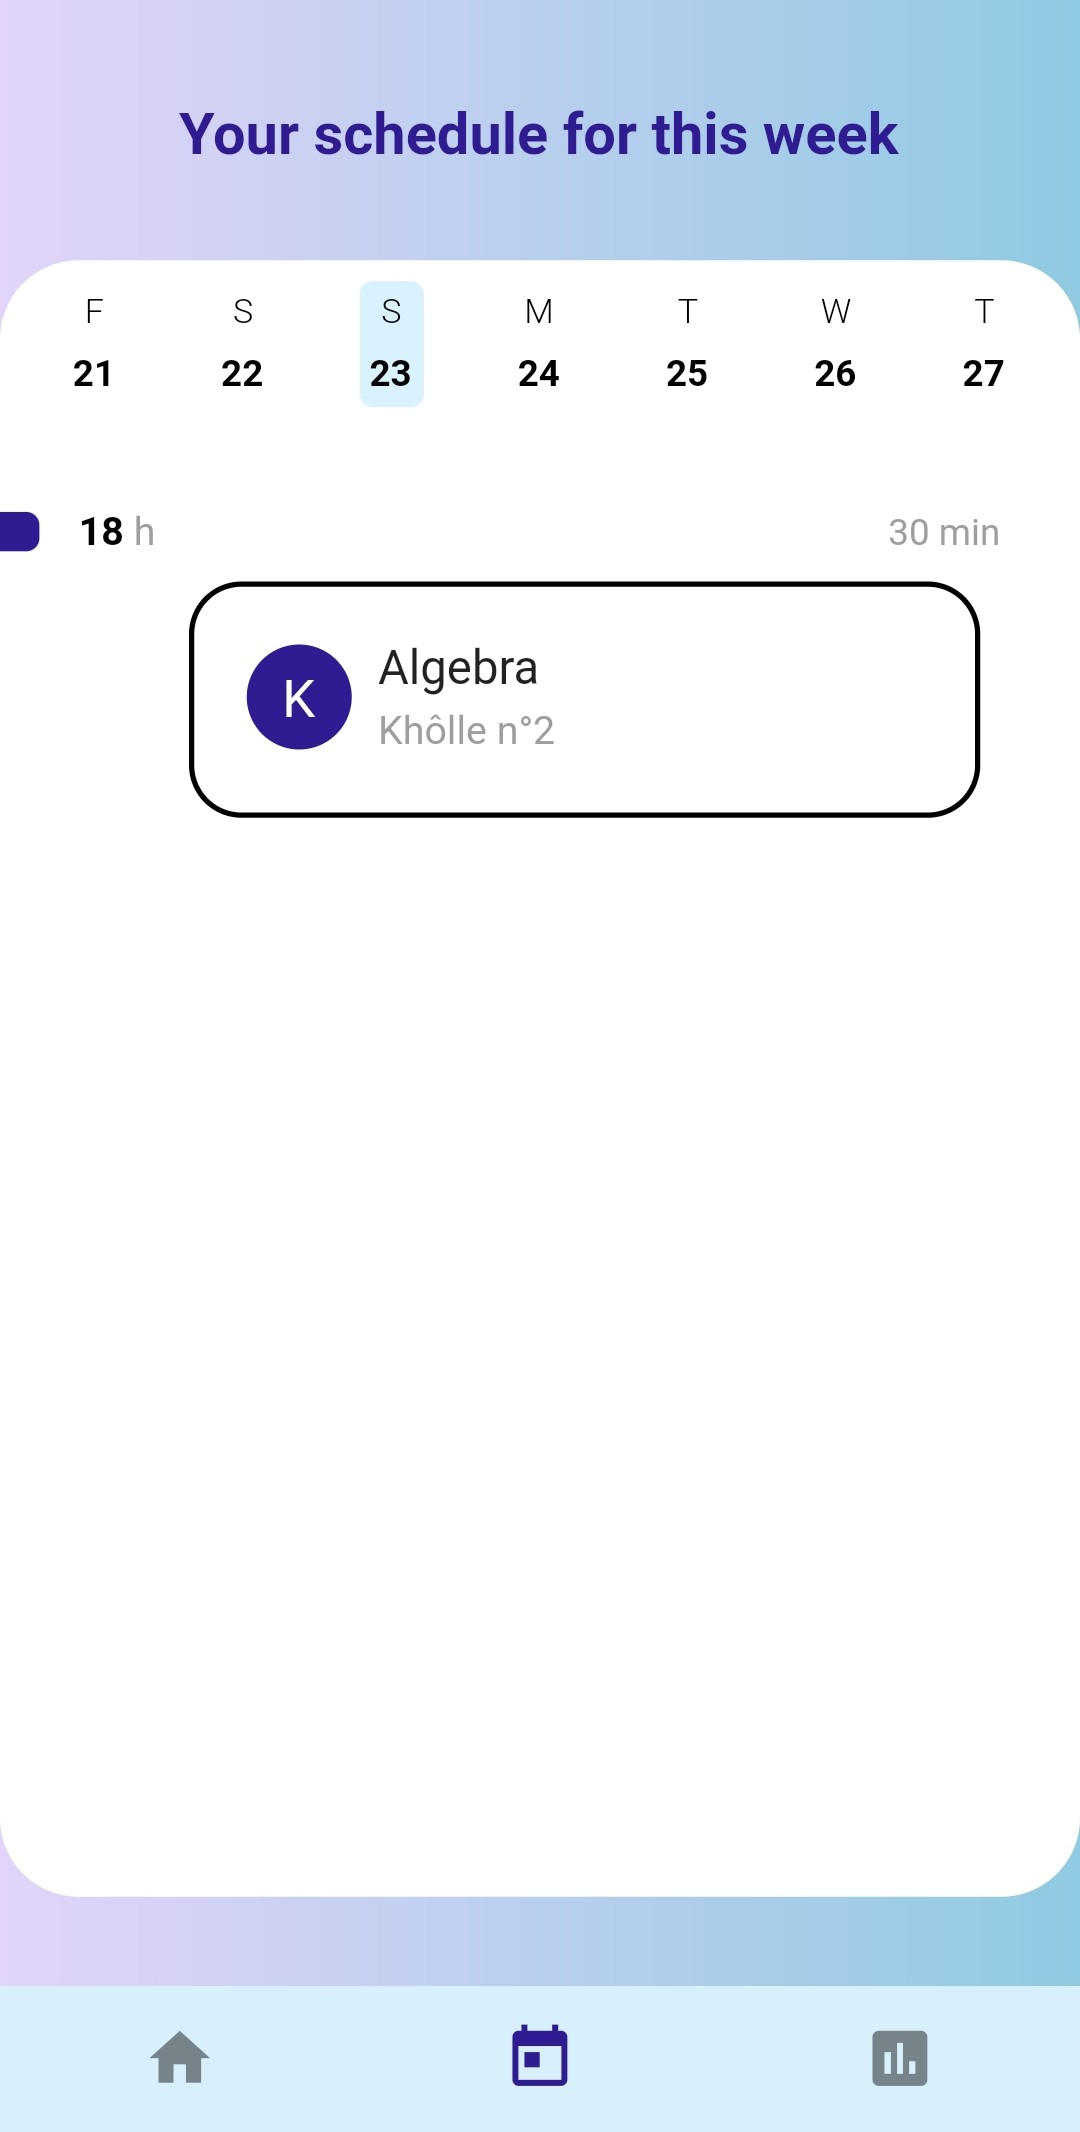
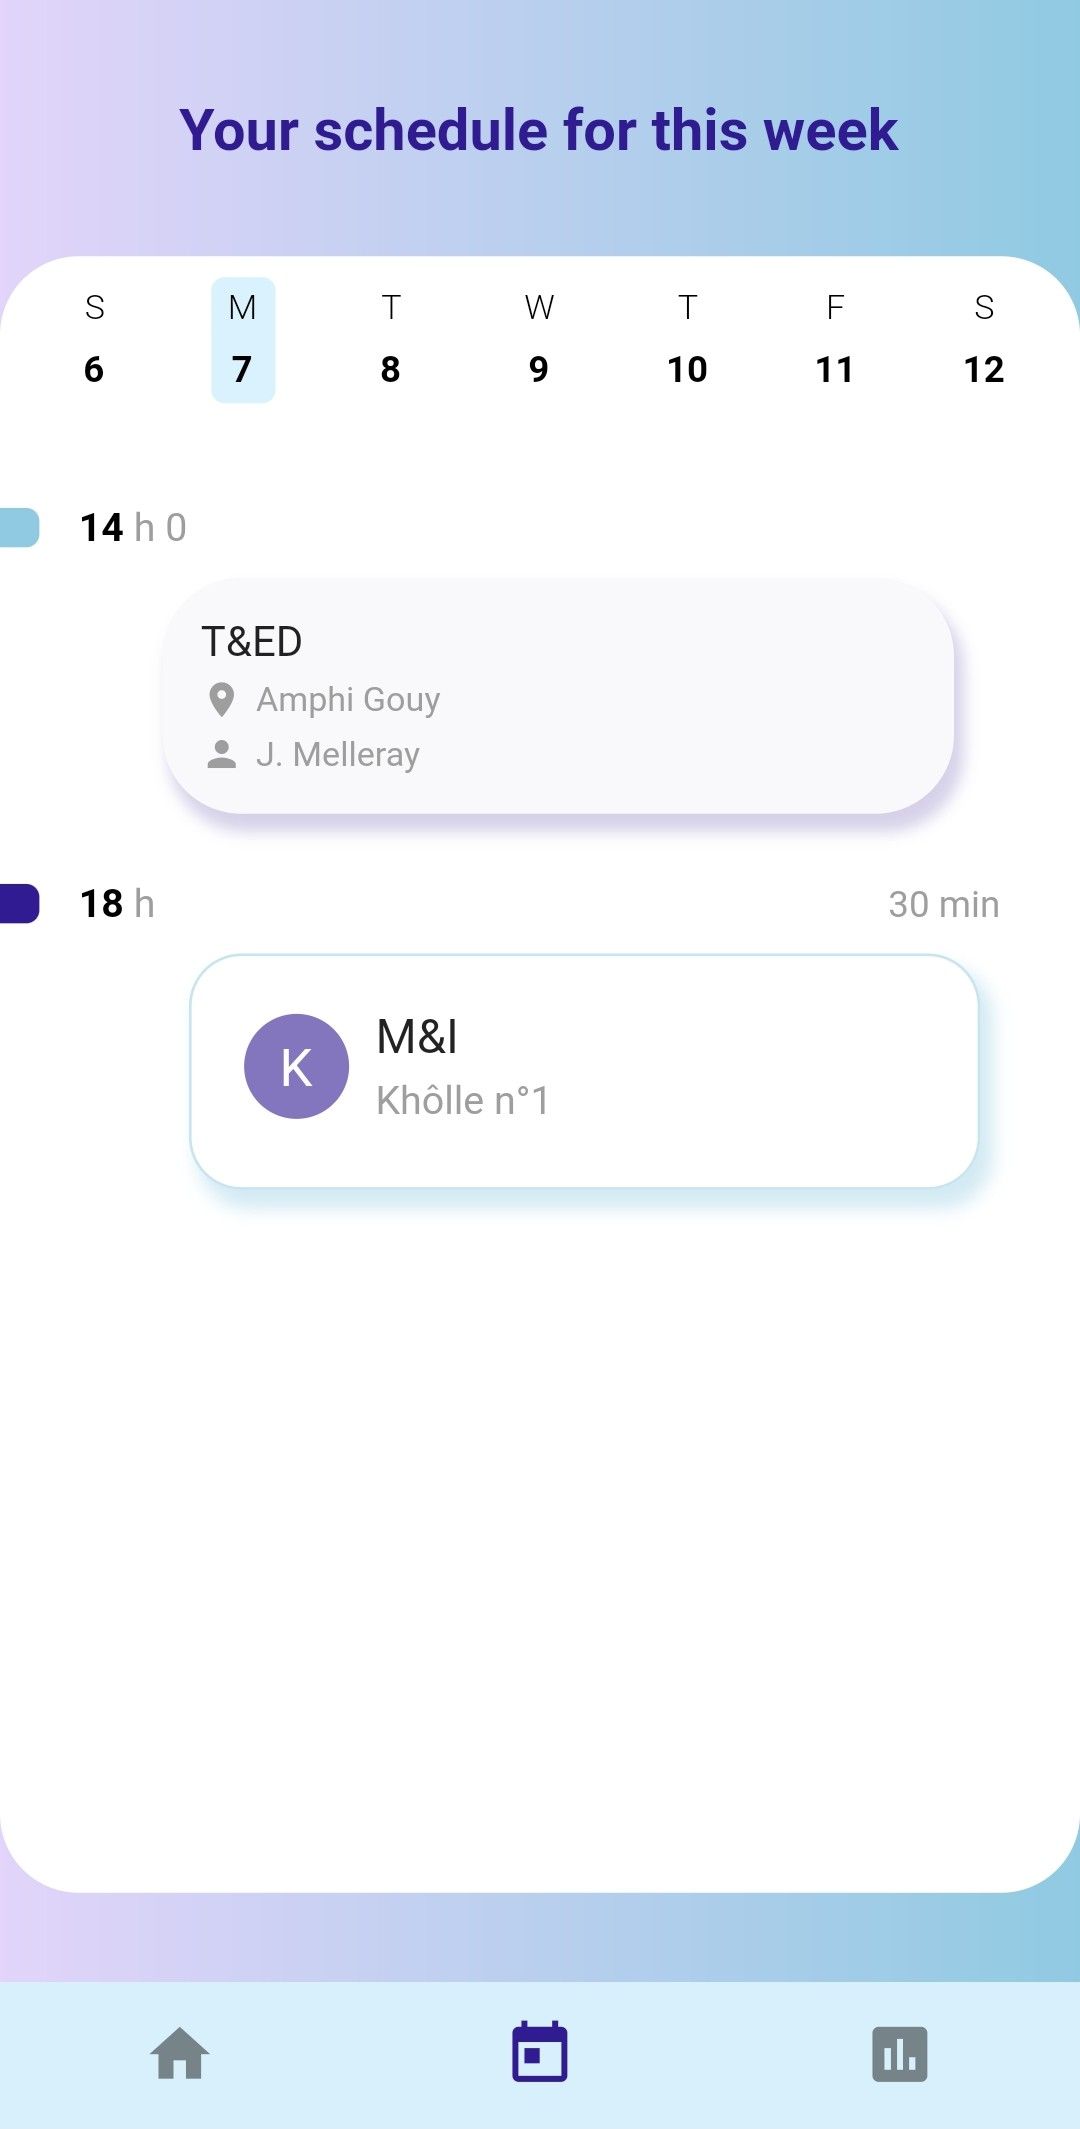
updated ReadMe and screen of weekly with shadows

diff --git a/README.md b/README.md
@@ -6,8 +6,8 @@ set of oral exams for each subject) and handle college exams.
 ## Features
 - [x] Creates a khôlloscope according to a number of weeks, a beginning date and a list of subjects
 - [x] displays next three exams on home screen
-- [ ] displays next two classes (displays dummy data for the moment)
-- [x] weekly screen where is displayed corresponding daily exams (selectable day)
+- [x] displays next two classes
+- [x] weekly screen where is displayed corresponding daily exams and lessons (selectable day)
 - [x] displays list of subjects with links to specific details for each of them
 - [x] displays subject details (completion rate, average grade, list of exams with names, dates and grades)
 - [x] possible to add exams, subjects and create another khôlloscope (with already entered subjects and/or new ones)
@@ -15,12 +15,9 @@ set of oral exams for each subject) and handle college exams.
 
 
 ## ScreenShots
-<img src="assets/Screenshot_homescreen.jpg" height = 400> 
-<img src="assets/Screenshot_weekly.jpg" height = 400> 
-<img src="assets/Screenshot_subjects.jpg" height = 400>
-<img src="assets/Screenshot_details.jpg" height = 400>
-<img src="assets/Screenshot_form_kh.jpg" height = 400>
-<img src="assets/Screenshot_form_exam.jpg" height = 400>
+<img src="assets/Screenshot_homescreen.jpg" height = 400> <img src="assets/Screenshot_weekly.jpg" height = 400> 
+<img src="assets/Screenshot_subjects.jpg" height = 400> <img src="assets/Screenshot_details.jpg" height = 400>
+<img src="assets/Screenshot_form_kh.jpg" height = 400> <img src="assets/Screenshot_form_exam.jpg" height = 400>
 <img src="assets/Screenshot_form_subject.jpg" height = 400>
   
 
